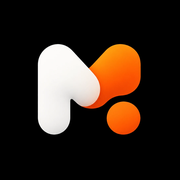
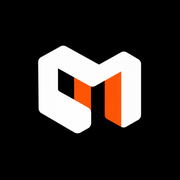
새 MIRO 마크(접힌 M)로 로고·인트로·PWA 아이콘·파비콘 교체, 기억 추출은 검열 통과 뒤에만 호출, 채팅 턴에 클라이언트 IP 를 실어 IP 분당 제한을 대사 호출 기준으로 작동시킴
- docs/brand/logo-mark-source.png + make-logo-assets.py: 바탕만 걷고 접힘의 검은 면은 남김, 가운데 V 꼭짓점에서 두 조각으로
- LogoIntro: 점 층(logo-d) 없이 두 조각이 양쪽에서 만나고 이름이 뜬다
- orchestrator: 차단된 턴은 기억 추출 호출을 내지 않는다(의미 분류는 대사가 기다리므로 그대로 병렬)
- turn-action: ip 전달, ai-usage: ip 키는 task=dialogue 만 — 한 턴 5회를 다 세면 두 턴째에 막히던 값

Changed region(s): [[0.1944, 0.2222, 0.8056, 0.75]]

diff --git a/apps/web/components/ui/logo.tsx b/apps/web/components/ui/logo.tsx
@@ -4,23 +4,20 @@ import { motion, useReducedMotion } from 'motion/react'
 import { ease, tween } from '@/lib/motion/tokens'
 
 /**
- * MIRO 심볼 — 흰 M 의 오른팔이 주황으로 이어지고, 그 아래 주황 점 하나. 원본은 docs/brand/logo-mark-source.webp,
- * public/logo-mark.png 는 거기서 바탕을 걷어낸 투명 정사각형이다(같은 스크립트로 layer·아이콘도 만든다).
+ * MIRO 심볼 — 접힌 종이처럼 선 M. 흰 두 조각이 가운데 V 에서 만나고, 접힘의 안쪽 면은 주황과 검정이다(2026-09-28 마크).
+ * 원본은 docs/brand/logo-mark-source.png, public/logo-mark.png 는 거기서 바탕을 걷어낸 투명 정사각형이다(같은 스크립트로 층·아이콘도 만든다).
  */
 export function LogoMark({ size = 28, label = 'MIRO' }: { size?: number; label?: string }) {
   // eslint-disable-next-line @next/next/no-img-element
   return <img src="/logo-mark.png" alt={label} width={size} height={size} style={{ width: size, height: size, display: 'block' }} />
 }
 
-/** 점의 중심(캔버스 기준 %) — 점은 제자리에서 커져야 한다. 마크를 다시 만들면 같이 갱신한다. */
-const DOT_ORIGIN = '80.7% 76.2%'
-
 type Phase = 'hidden' | 'join' | 'open'
 
 /**
- * Launch sequence (DESIGN §22): 검은 화면 → 흰 M 은 왼쪽에서, 주황 팔은 오른쪽에서 → 서로 만나 하나 → 점이 찍히며 세계가 열림.
- * 세 단계는 차례로 일어나야 한다 — 한 번에 두 variant 를 주면 마지막 값이 이겨서 '만나는' 순간이 사라진다.
- * 마크는 색으로 나눈 세 층(logo-m · logo-s · logo-d)이다. reduce-motion 이면 마지막 프레임만.
+ * Launch sequence (DESIGN §22): 검은 화면 → 왼쪽 조각은 왼쪽에서, 오른쪽 조각은 오른쪽에서 → 가운데 V 에서 만나 하나 → 이름이 뜨며 세계가 열림.
+ * 두 단계는 차례로 일어나야 한다 — 한 번에 두 variant 를 주면 마지막 값이 이겨서 '만나는' 순간이 사라진다.
+ * 마크는 가운데 골에서 가른 두 층(logo-m · logo-s)이다. reduce-motion 이면 마지막 프레임만.
  */
 export function LogoIntro({ onDone, size = 156 }: { onDone?: () => void; size?: number }) {
   const reduce = useReducedMotion()
@@ -29,9 +26,9 @@ export function LogoIntro({ onDone, size = 156 }: { onDone?: () => void; size?: 
   useEffect(() => {
     if (reduce) { onDone?.(); return }
     setPhase('join')                                   // 마운트 직후: 양쪽에서 들어와 만난다
-    const t = setTimeout(() => setPhase('open'), 1000) // 만난 채로 잠시 머문 뒤 점이 찍힌다
+    const t = setTimeout(() => setPhase('open'), 1000) // 만난 채로 잠시 머문 뒤 이름이 뜬다
     return () => clearTimeout(t)
-    // onDone 은 점이 찍힌 뒤 한 번만 (onAnimationComplete)
+    // onDone 은 이름이 뜬 뒤 한 번만 (onAnimationComplete)
   }, [reduce])                                          // eslint-disable-line react-hooks/exhaustive-deps
 
   const piece = (dir: -1 | 1) => ({
@@ -39,21 +36,14 @@ export function LogoIntro({ onDone, size = 156 }: { onDone?: () => void; size?: 
     join: { opacity: 1, x: 0, transition: { duration: 0.72, ease: ease.enter } },
     open: { opacity: 1, x: 0 },
   })
-  const dot = {
-    hidden: { opacity: 0, scale: 0 },
-    join: { opacity: 0, scale: 0 },
-    open: { opacity: 1, scale: 1, transition: { duration: 0.5, ease: ease.enter } },
-  }
   const layer = (file: string): React.CSSProperties => ({ position: 'absolute', inset: 0, backgroundImage: `url(${file})`, backgroundSize: '100% 100%' })
 
   return (
     <motion.div role="img" aria-label="MIRO" initial={reduce ? false : 'hidden'} animate={phase}
       onAnimationComplete={(d) => { if (d === 'open') onDone?.() }}
       style={{ position: 'relative', width: size, height: size }}>
-      {/* 주황 팔이 아래, 흰 M 이 위 — 원본에서 팔이 M 뒤로 들어간다. 순서를 바꾸면 이음매가 드러난다. */}
-      <motion.div aria-hidden variants={piece(1)} style={layer('/logo-s.png')} />
       <motion.div aria-hidden variants={piece(-1)} style={layer('/logo-m.png')} />
-      <motion.div aria-hidden variants={dot} style={{ ...layer('/logo-d.png'), transformOrigin: DOT_ORIGIN }} />
+      <motion.div aria-hidden variants={piece(1)} style={layer('/logo-s.png')} />
       <motion.span aria-hidden className="t-micro"
         variants={{ hidden: { opacity: 0 }, join: { opacity: 0 }, open: { opacity: 1, transition: { ...tween.enter, delay: 0.3 } } }}
         style={{ position: 'absolute', top: '100%', left: 0, right: 0, textAlign: 'center', marginTop: 14, letterSpacing: '0.34em', color: 'var(--color-text-secondary)' }}>MIRO</motion.span>

diff --git a/apps/web/lib/usage/ai-usage.ts b/apps/web/lib/usage/ai-usage.ts
@@ -34,7 +34,7 @@ export function budgetPolicy(): Record<string, Limit> {
   return {
     global: { requests: configured('AI_DAILY_REQUEST_LIMIT', 1000), cost: configured('AI_DAILY_BUDGET', 0) },
     user: { requests: configured('AI_USER_DAILY_LIMIT', 200) },
-    ip: { requests: configured('AI_IP_RATE_LIMIT_PER_MINUTE', 20) },
+    ip: { requests: configured('AI_IP_RATE_LIMIT_PER_MINUTE', 20) },   // 분당 턴 수(대사 호출 기준)
     /**
      * 한 사용자가 한 달에 태울 수 있는 원가 상한. 무료 대화는 월간 사용량을 차감하지 않으므로
      * 이 상한이 없으면 한 계정이 하루 한도를 매일 채워 원가를 끝없이 늘릴 수 있다.
@@ -58,7 +58,8 @@ export const productionBudgetGuard: BudgetGuard = {
     const month = startOfMonthKST().toISOString()
     const scopes = [ ['global', 'global'], ['provider:' + model.provider, 'provider'], ['model:' + model.id, 'model'], ['plan:' + plan, 'plan'],
       ...(context.userId ? [['user:' + context.userId, 'user'], ['user_monthly:' + context.userId, 'user_monthly']] : []),
-      ...(context.ip ? [['ip:' + ipHash(context.ip), 'ip']] : []) ]
+      // IP 분당 제한은 사용자가 보낸 턴(dialogue)만 센다 — 한 턴이 검열·분류·추출까지 5회를 부르니 전부 세면 두 턴째에 막힌다.
+      ...(context.ip && request.task === 'dialogue' ? [['ip:' + ipHash(context.ip), 'ip']] : []) ]
     const window = (category: string) => category === 'ip' ? String(minute) : category === 'user_monthly' ? month : day
     const entries = scopes.map(([scope, category]) => ({ key: window(category!) + ':' + scope!, limit: policy[scope!] ?? policy[category!] ?? {}, category: category!,
       // 월간 카운터는 달이 끝나기 전에 지워지면 한도가 초기화된다 — 넉넉히 살려 둔다.

diff --git a/packages/engine/src/orchestrator.ts b/packages/engine/src/orchestrator.ts
@@ -94,16 +94,15 @@ export async function runTurn(opts: {
   const semantic = auxiliary && tasks.includes('semantic_event')
     ? analyzeSemantic(auxiliary, opts.userInput, snapshot).then(r => r.events.filter(e => e.confidence >= .8), () => [])
     : Promise.resolve([])
+  // 검열이 막으면 여기서 끝난다. 의미 분류는 이미 떠 있으므로 결과를 버리고 나간다.
+  try { await safety } catch (e) { void semantic.catch(() => {}); throw e }
   /**
-   * 기억 추출·요약은 대사 프롬프트에 들어가지 않는다 — 커밋 때만 쓴다. 그래서 지금 띄우되
-   * 대사 생성이 끝난 뒤에 거둔다. 대사보다 먼저 기다리면 매 턴 그 호출만큼 첫 답이 늦어진다.
+   * 기억 추출·요약은 대사 프롬프트에 들어가지 않는다 — 커밋 때만 쓴다. 검열이 지난 뒤에 띄우고
+   * 대사 생성이 끝난 뒤에 거둔다(대사가 더 오래 걸리니 첫 답은 늦어지지 않는다). 차단된 턴은 이 호출을 내지 않는다.
    */
   const memoryTasks: Promise<MemoryCandidate[][]> = auxiliary ? Promise.all(
     tasks.filter(t => t === 'memory_extraction' || t === 'memory_summary')
       .map(task => analyzeMemory(auxiliary, task, opts.userInput, snapshot).then(r => filterSalient(r.memories), () => []))) : Promise.resolve([])
-
-  // 검열이 막으면 여기서 끝난다. 보조 분석은 이미 떠 있으므로 결과를 버리고 나간다.
-  try { await safety } catch (e) { void semantic.catch(() => {}); void memoryTasks.catch(() => {}); throw e }
   const events = await semantic
   if (events.length) semanticEvents = mergeSemanticEvents(semanticEvents, events as SemanticEvent[])
 

diff --git a/apps/web/lib/simulation/turn-action.ts b/apps/web/lib/simulation/turn-action.ts
@@ -2,6 +2,7 @@ import { revalidatePath } from 'next/cache'
 import { and, eq } from 'drizzle-orm'
 import { db, conversationRequests } from '@miro/db'
 import { runConversationTurn } from '@/lib/simulation/turn'
+import { clientIp } from '@/lib/alpha/session'
 import { exceededMessage } from '@/lib/usage/guard'
 import { COPY } from '@/lib/copy'
 
@@ -36,7 +37,7 @@ export async function turnFromForm(userId: string, form: FormData, opts: { mode:
   const input = String(form.get('input') ?? '').trim()
   if (input.length === 0) return { error: null, notice: null, limit: null }
 
-  const r = await runConversationTurn({ userId, sessionId, input, mode: opts.mode, chatModel: String(form.get('chatModel') ?? 'miro'), requestId: String(form.get('requestId') ?? '') || undefined })
+  const r = await runConversationTurn({ userId, sessionId, input, ip: await clientIp(), mode: opts.mode, chatModel: String(form.get('chatModel') ?? 'miro'), requestId: String(form.get('requestId') ?? '') || undefined })
   if (!r.ok) {
     switch (r.reason) {
       case 'usage': return { error: exceededMessage(r.error), notice: null, limit: { plan: r.error.plan, resetsAt: r.error.resetsAt.toISOString() } }

diff --git a/docs/brand/make-logo-assets.py b/docs/brand/make-logo-assets.py
@@ -1,53 +1,63 @@
-"""logo-mark-source.webp(검정 바탕 원본) → apps/web/public 의 마크·층·PWA 아이콘.
+"""logo-mark-source.png(검정 바탕 원본, 2026-09-28 마크) → apps/web/public 의 마크·층·PWA 아이콘.
 
   python3 docs/brand/make-logo-assets.py
 
-- logo-mark.png : 바탕을 걷어낸 투명 정사각형(512). 헤더·시트가 쓴다.
-- logo-m / logo-s / logo-d : 색으로 나눈 세 층(흰 몸통·주황 팔·주황 점). 로그인 인트로가 쓴다.
+- logo-mark.png : 바탕을 걷어낸 투명 정사각형(512). 헤더·시트가 쓴다. 접힘의 검은 면(흰·주황에 둘러싸인 검정)은
+  마크의 일부라 불투명 검정으로 남긴다 — 바탕만 걷는다.
+- logo-m / logo-s : 가운데 골에서 가른 왼쪽 조각(검은 면 포함) · 오른쪽 조각. 로그인 인트로가 양쪽에서 모은다.
 - icon-512/192/180 : 검정 바탕, 마크 폭 62% (maskable 안전 영역). 홈 화면·푸시 아이콘.
 - favicon.png : 투명 96px. 브라우저 탭에는 검정 상자가 아니라 마크만 보인다.
-점의 중심(캔버스 %)을 찍어 준다 — components/ui/logo.tsx 의 DOT_ORIGIN 에 넣는다.
 """
-from PIL import Image
+from PIL import Image, ImageDraw
 import numpy as np
 
-SRC = 'docs/brand/logo-mark-source.webp'
+SRC = 'docs/brand/logo-mark-source.png'
 OUT = 'apps/web/public'
 
-a = np.asarray(Image.open(SRC).convert('RGB')).astype(float)
+img = Image.open(SRC).convert('RGB')
+a = np.asarray(img).astype(float)
 mx = a.max(axis=2)
-alpha = np.clip(mx / 200.0, 0, 1)                          # 밝기 200 이상은 불투명, 테두리는 비례
+alpha = np.clip(mx / 200.0, 0, 1)                              # 밝기 200 이상은 불투명, 테두리는 비례
 col = np.clip(a / np.maximum(alpha[..., None], 1e-6), 0, 255)  # 테두리에 섞인 검정을 벗긴다
-R, B = col[..., 0], col[..., 2]
 ink = alpha > 0.02
+
+# 바탕 = 모서리에서 이어지는 검정. 이어지지 않는 검정은 마크 안의 면이다.
+reach = Image.fromarray((ink * 255).astype(np.uint8), 'L').copy()   # fromarray 는 읽기 전용 버퍼라 floodfill 이 조용히 실패한다
+ImageDraw.floodfill(reach, (0, 0), 128)
+hole = np.asarray(reach) == 0
+alpha_all = np.where(hole, 1.0, alpha)
+col_all = col.copy(); col_all[hole] = 0
+
+R, B = col[..., 0], col[..., 2]
 orange = ink & ((R - B) > 80)
 white = ink & ~orange
 
-ys, xs = np.where(ink)
+# 두 조각의 경계 = 위쪽 V 의 꼭짓점(흰 윗선이 가장 낮게 내려오는 열). 흰 몸통은 거기서 이어져 있으니 그 열에서 가른다.
+lo, hi = int(a.shape[1] * .4), int(a.shape[1] * .6)
+top = np.array([np.where(white[:, x])[0].min() if white[:, x].any() else -1 for x in range(lo, hi)])
+xc = lo + int(top.argmax())
+xx = np.arange(a.shape[1])[None, :]
+left = (white | orange) & (xx < xc) | hole
+right = (white | orange) & (xx >= xc)
+print('split at column', xc)
+
+ys, xs = np.where(ink | hole)
 x0, y0, x1, y1 = xs.min(), ys.min(), xs.max(), ys.max()
 w, h = x1 - x0 + 1, y1 - y0 + 1
 S = int(round(max(w, h) * 1.06)); ox, oy = (S - w) // 2, (S - h) // 2
 
-# 점 = 오른쪽 아래 주황 원. 무게중심과 반지름으로 팔과 가른다.
-dm = orange.copy(); dm[:700, :] = False; dm[:, :735] = False
-dy, dx = np.where(dm); cx, cy = dx.mean(), dy.mean()
-r = np.sqrt((dx - cx) ** 2 + (dy - cy) ** 2).max()
-yy, xx = np.mgrid[0:a.shape[0], 0:a.shape[1]]
-dot = orange & (((xx - cx) ** 2 + (yy - cy) ** 2) <= (r + 2) ** 2)
-stroke = orange & ~dot
-
 def layer(mask, name):
     out = np.zeros((S, S, 4), dtype=np.uint8)
-    rgba = np.dstack([col, alpha * 255]); rgba[~mask] = 0
+    rgba = np.dstack([col_all, alpha_all * 255]); rgba[~mask] = 0
     out[oy:oy + h, ox:ox + w] = np.round(rgba[y0:y1 + 1, x0:x1 + 1]).astype(np.uint8)
     Image.fromarray(out, 'RGBA').resize((512, 512), Image.LANCZOS).save(f'{OUT}/{name}.png', optimize=True)
     return out
 
-full = layer(ink, 'logo-mark'); layer(white, 'logo-m'); layer(stroke, 'logo-s'); layer(dot, 'logo-d')
+full = layer(ink | hole, 'logo-mark'); layer(left, 'logo-m'); layer(right, 'logo-s')
 mark = Image.fromarray(full, 'RGBA')
 for n, px in [('icon-512', 512), ('icon-192', 192), ('icon-180', 180)]:
     canvas = Image.new('RGBA', (px, px), (0, 0, 0, 255)); m = int(px * 0.62)
     canvas.alpha_composite(mark.resize((m, m), Image.LANCZOS), ((px - m) // 2, (px - m) // 2))
     canvas.convert('RGB').save(f'{OUT}/{n}.png', optimize=True)
 mark.resize((96, 96), Image.LANCZOS).save(f'{OUT}/favicon.png', optimize=True)
-print('DOT_ORIGIN = %.1f%% %.1f%%' % ((cx - x0 + ox) / S * 100, (cy - y0 + oy) / S * 100))
+print('left px', int(left.sum()), 'right px', int(right.sum()), 'hole px', int(hole.sum()), 'canvas', S)

diff --git a/docs/DESIGN.md b/docs/DESIGN.md
@@ -618,14 +618,14 @@ App Launch에서 로고를 활용할 수 있다.
 ### Sequence
 
 1. Black Screen
-2. 흰 M 은 왼쪽에서, 주황 팔은 오른쪽에서 등장
+2. 왼쪽 조각은 왼쪽에서, 오른쪽 조각은 오른쪽에서 등장
 3. 서로 가까워짐
-4. 하나의 Logo 완성
-5. 주황 점이 제자리에서 찍힘
+4. 가운데 V 에서 만나 하나의 Logo 완성
+5. 이름(MIRO)이 뜸
 6. Character World가 Reveal
 
-마크 원본은 `docs/brand/logo-mark-source.webp`. `apps/web/public` 의 `logo-mark.png`(투명 정사각형)와
-세 층(`logo-m` 흰 몸통 · `logo-s` 주황 팔 · `logo-d` 주황 점), PWA 아이콘은 모두 거기서 만든다.
+마크 원본은 `docs/brand/logo-mark-source.png`(2026-09-28, 접힌 M — 흰 두 조각, 안쪽 면은 주황·검정). `apps/web/public` 의
+`logo-mark.png`(투명 정사각형)와 두 층(`logo-m` 왼쪽 조각 · `logo-s` 오른쪽 조각), PWA 아이콘은 모두 `docs/brand/make-logo-assets.py` 로 만든다.
 
 이 Motion은 다음 메시지를 가진다.
 
